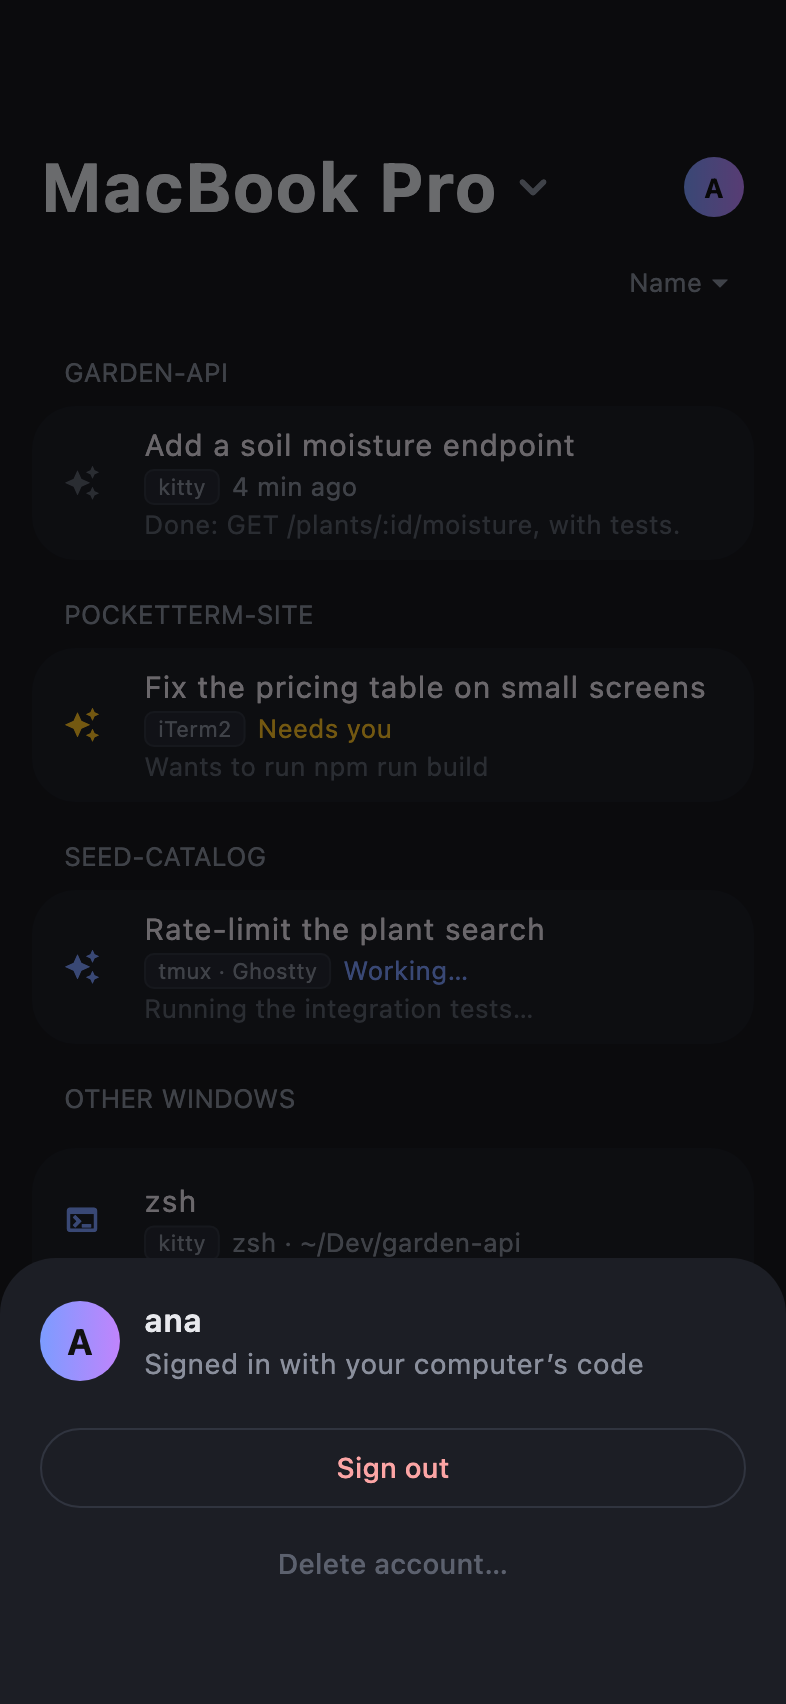
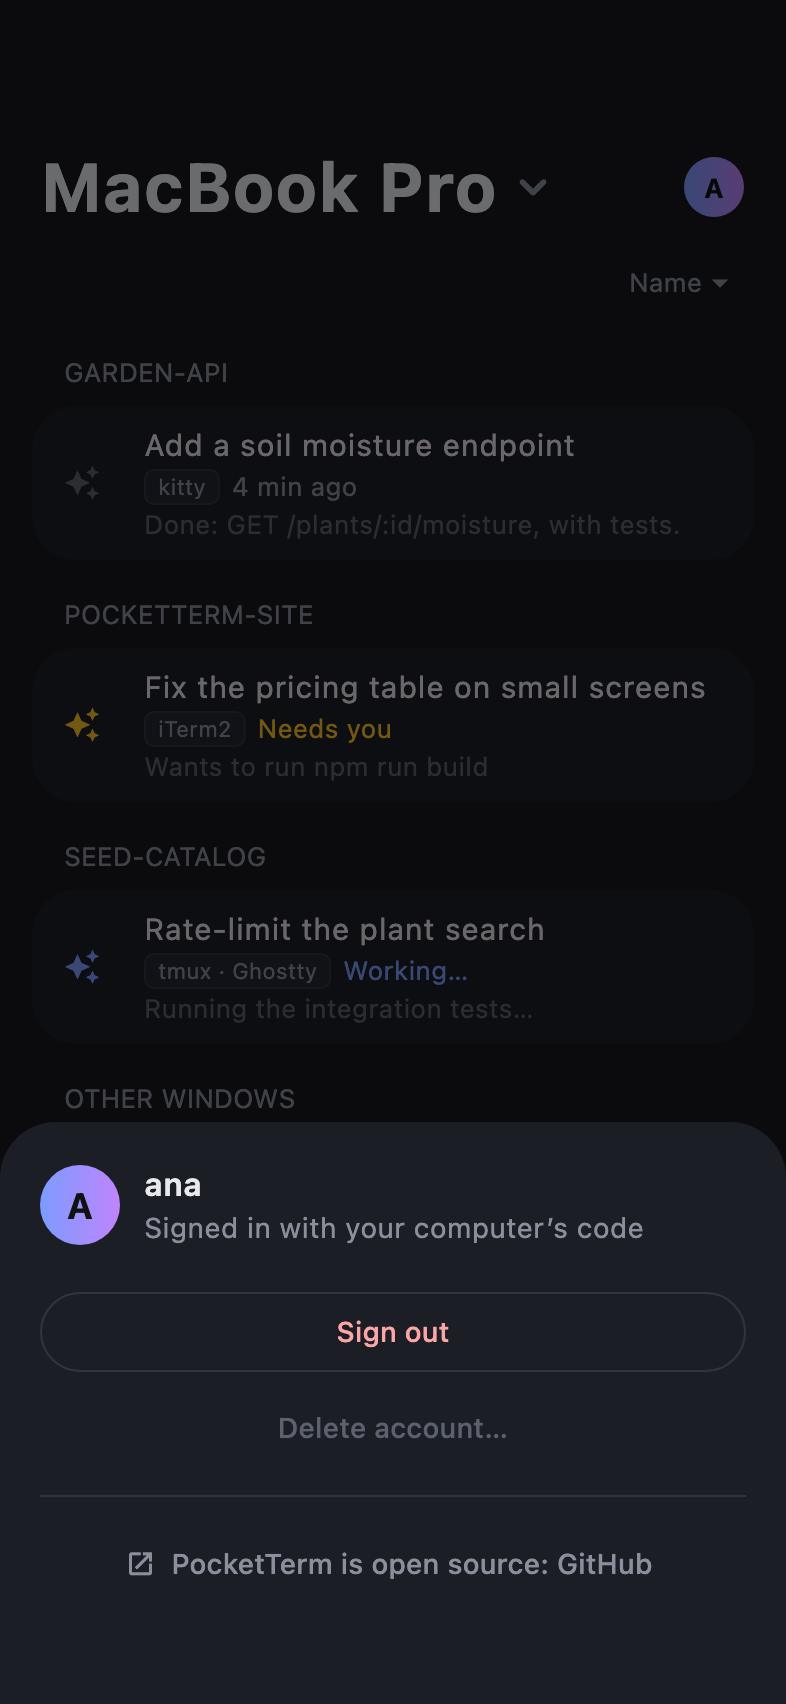
Phone: desktop downloads link on the welcome screen, GitHub link in the account sheet

diff --git a/apps/pocketterm-mobile/lib/mobile.dart b/apps/pocketterm-mobile/lib/mobile.dart
@@ -14,6 +14,7 @@ import 'package:pocketterm_core/session.dart';
 import 'package:pocketterm_core/terminal_remote.dart';
 import 'package:pocketterm_core/ui.dart';
 import 'package:pocketterm_mobile/chrome.dart';
+import 'package:pocketterm_mobile/links.dart';
 import 'package:pocketterm_mobile/setup_page.dart';
 import 'package:pocketterm_mobile/terminal_view.dart';
 import 'package:shared_preferences/shared_preferences.dart';
@@ -595,6 +596,14 @@ class _HomePageState extends State<HomePage> with WidgetsBindingObserver {
               },
               style: TextButton.styleFrom(foregroundColor: C.dim2),
               child: const Text('Delete account…'),
+            ),
+            const Divider(height: 20, color: C.line2),
+            TextButton.icon(
+              key: const ValueKey('source-code'),
+              onPressed: () => openExternal(repoUrl),
+              style: TextButton.styleFrom(foregroundColor: C.dim),
+              icon: const Icon(Icons.open_in_new, size: 15),
+              label: const Text('PocketTerm is open source: GitHub'),
             ),
           ],
         ),

diff --git a/apps/pocketterm-mobile/lib/setup_page.dart b/apps/pocketterm-mobile/lib/setup_page.dart
@@ -6,6 +6,7 @@ import 'package:pocketterm_core/connect.dart' show ConfirmLink;
 import 'package:pocketterm_core/logo.dart';
 import 'package:pocketterm_core/session.dart';
 import 'package:pocketterm_core/ui.dart';
+import 'package:pocketterm_mobile/links.dart';
 import 'package:pocketterm_mobile/onboarding/scan.dart';
 
 /// What a phone without a session shows: the only way in is a code from the
@@ -149,7 +150,16 @@ class _SetupPageState extends State<SetupPage> {
         style: TextStyle(height: 1.7),
       ),
     ),
-    const SizedBox(height: 20),
+    // Step 1 needs PocketTerm on the computer: where to get it.
+    Align(
+      child: TextButton.icon(
+        key: const ValueKey('get-desktop'),
+        onPressed: () => openExternal(desktopDownloadsUrl),
+        icon: const Icon(Icons.open_in_new, size: 15),
+        label: const Text('Get PocketTerm for Mac or Windows'),
+      ),
+    ),
+    const SizedBox(height: 8),
     FilledButton(
       onPressed: _busy ? null : () => unawaited(_scan()),
       child: Padding(

diff --git a/apps/pocketterm-mobile/test/setup_page_test.dart b/apps/pocketterm-mobile/test/setup_page_test.dart
@@ -70,6 +70,7 @@ void main() {
   }
 
   Future<void> paste(WidgetTester tester, String text) async {
+    await tester.ensureVisible(find.text('Paste a code instead'));
     await tester.tap(find.text('Paste a code instead'));
     await tester.pump();
     await tester.enterText(find.byType(TextField), text);
@@ -93,6 +94,7 @@ void main() {
       expect(find.byType(GithubButton), findsNothing);
       expect(find.textContaining('GitHub'), findsNothing);
 
+      await tester.ensureVisible(find.text('Paste a code instead'));
       await tester.tap(find.text('Paste a code instead'));
       await tester.pump();
       expect(find.byType(TextField), findsOneWidget);

diff --git a/apps/pocketterm-mobile/lib/links.dart b/apps/pocketterm-mobile/lib/links.dart
@@ -1,0 +1,12 @@
+import 'dart:async';
+
+import 'package:url_launcher/url_launcher.dart';
+
+/// PocketTerm's home: the source, the docs and the desktop downloads.
+const repoUrl = 'https://github.com/danyzmaj-apps/pocketterm';
+
+/// The desktop app's latest release (Mac DMG, Windows installer).
+const desktopDownloadsUrl = '$repoUrl/releases/latest';
+
+/// Opens [url] in the browser, outside the app.
+void openExternal(String url) => unawaited(launchUrl(Uri.parse(url), mode: LaunchMode.externalApplication));

diff --git a/CHANGELOG.md b/CHANGELOG.md
@@ -2,6 +2,12 @@
 
 User-visible changes to PocketTerm. Each release says whether servers need `apps/pocketterm-desktop/tool/setup-backend.sh` again (or an update from the setup wizard) and whether the push relay must be redeployed.
 
+## Unreleased
+
+No server update or relay redeploy needed.
+
+- **Phone: links to the rest of PocketTerm.** The welcome screen links to the desktop app's downloads (step 1 needs it), and the account sheet links to the source on GitHub.
+
 ## 0.1.0
 
 The first release. PocketTerm is the "Terminal from the phone" part of [Džep](https://github.com/danyzmaj-apps/dzep) 0.5.0 as a product of its own: Džep's ideas, todos, notes, reminders, Ask and widgets are not part of it.
